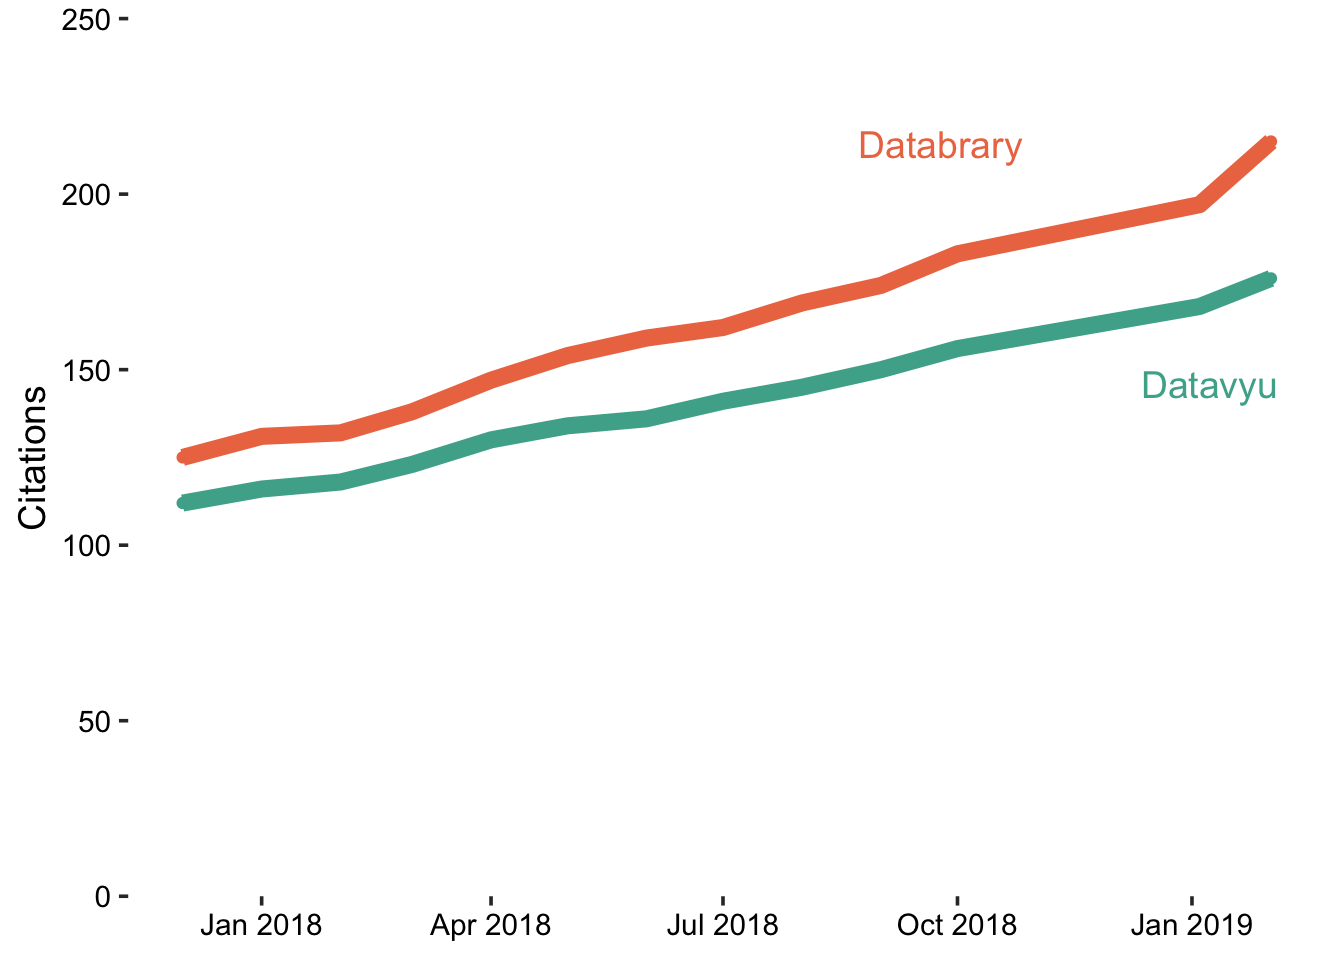
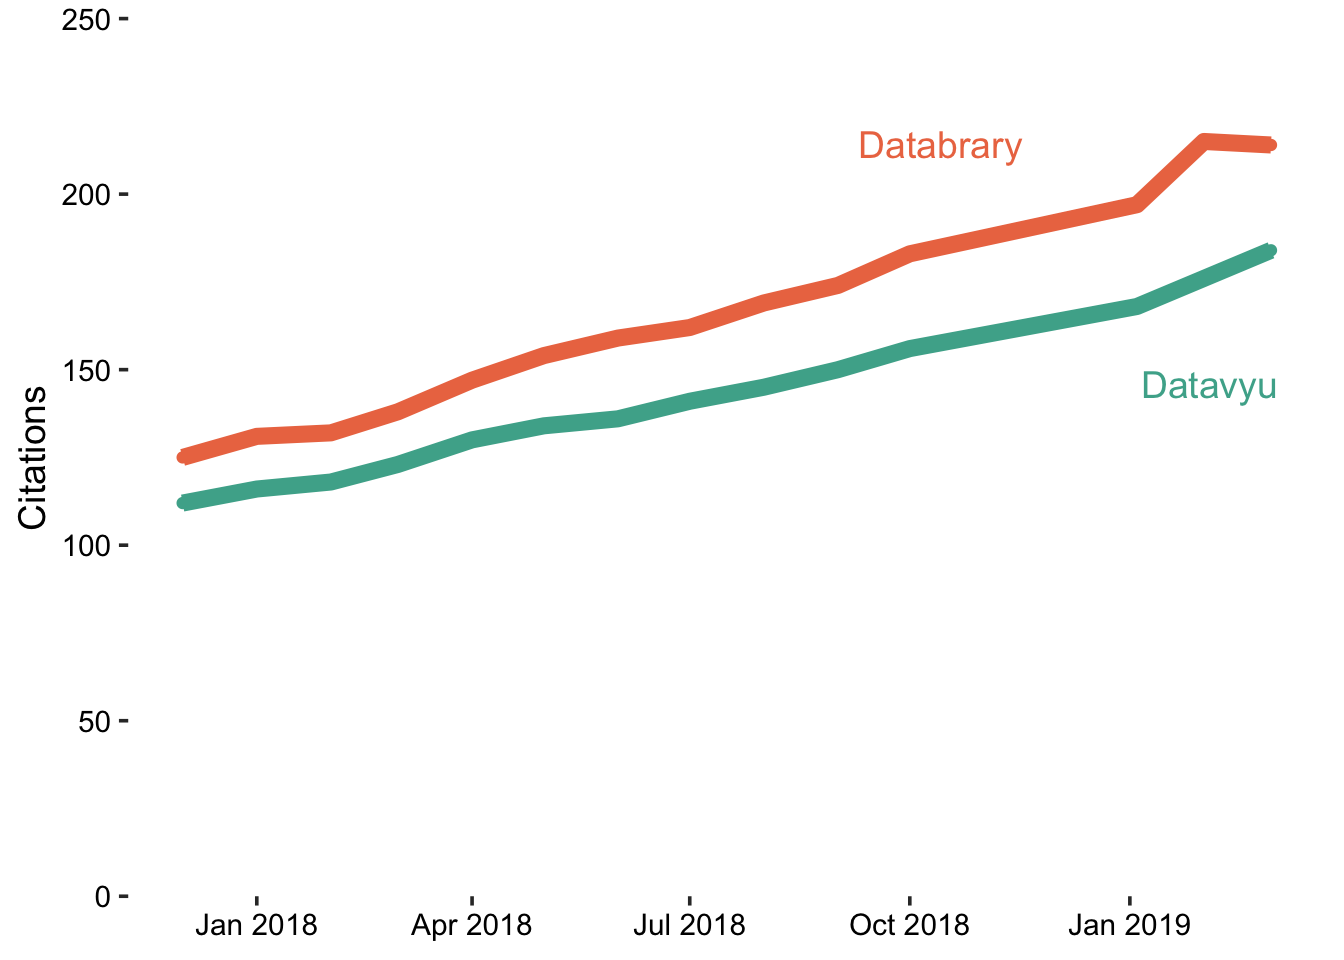
Add automatic Google Scholar search; tidy-up plot theme parameters

diff --git a/databrary_weekly.html b/databrary_weekly.html
@@ -301,7 +301,7 @@ div.tocify {
 
 <h1 class="title toc-ignore">Databrary Report</h1>
 <h4 class="author"><em>Rick O. Gilmore</em></h4>
-<h4 class="date"><em>2019-02-28 17:45:19</em></h4>
+<h4 class="date"><em>2019-03-01 10:15:15</em></h4>
 
 </div>
 
@@ -310,7 +310,6 @@ div.tocify {
 <h1><span class="header-section-number">1</span> Institutions &amp; Authorized Users</h1>
 <p>At the moment, the <code>old_stats</code> come from a CSV stored locally. Once we have API commands to upload new data, the <code>old_stats</code> can come from Databrary directly.</p>
 <pre class="r"><code>new_stats &lt;- databraryapi::get_db_stats()
-
 old_stats &lt;- read_csv(&quot;csv/institutionAuthCounts.csv&quot;)
 
 # initialize updated_stats
@@ -334,21 +333,16 @@ updated_stats &lt;-
 p &lt;- updated_stats %&gt;%
   ggplot(., aes(x = date, y = count, color = type, group = type)) +
   geom_point() + 
-  geom_line(size=3) +
-  theme_classic(base_size = 14) +                        #Axis Label Size
-  scale_colour_manual(values=c(&quot;#ec7751&quot;, &quot;#4CAE99&quot;)) +  #Saturated Databrary Colors 
+  geom_line(size = ln_size) +
+  scale_colour_manual(values=c(color_orange, color_teal)) +  
   ylab(&quot;Authorizations&quot;) +
-  #xlab(&quot;Year&quot;) +
-  #labs(title=&quot;Databrary User Growth&quot;) +
-  theme(axis.title.x=element_blank()) +
-  theme(legend.position=&quot;none&quot;, axis.text = element_text(size = rel(0.8), colour = &quot;black&quot;)) +    #Axis text size and color
-  theme(axis.line = element_blank()) +
+  databrary_theme +
   scale_y_continuous(breaks = seq(0, 900, 100), expand = c(0,0)) +
   coord_cartesian(ylim = c(0, 900))
   
 ggdraw(p) + 
-  draw_label(&quot;Investigators&quot;, colour = &quot;#4CAE99&quot;, .9, .73) +
-  draw_label(&quot;Institutions&quot;, colour = &quot;#ec7751&quot;, .9, .38)</code></pre>
+  draw_label(&quot;Investigators&quot;, colour = color_teal, .9, .73) +
+  draw_label(&quot;Institutions&quot;, colour = color_orange, .9, .38)</code></pre>
 <p><img src="databrary_weekly_files/figure-html/db-inst-user-plot-1.png" width="672" /></p>
 <div id="new-investigators" class="section level2">
 <h2><span class="header-section-number">1.1</span> New investigators</h2>
@@ -366,6 +360,16 @@ new_people %&gt;%
 </thead>
 <tbody>
 <tr class="odd">
+<td align="left">Kalagher</td>
+<td align="left">Hilary</td>
+<td align="left">Drew University</td>
+</tr>
+<tr class="even">
+<td align="left">Lanning</td>
+<td align="left">Kevin</td>
+<td align="left">Florida Atlantic University</td>
+</tr>
+<tr class="odd">
 <td align="left">Venker</td>
 <td align="left">Courtney</td>
 <td align="left">Michigan State University</td>
@@ -379,16 +383,6 @@ new_people %&gt;%
 <td align="left">Bowden</td>
 <td align="left">Edward</td>
 <td align="left">University of Wisconsin-Parkside</td>
-</tr>
-<tr class="even">
-<td align="left">Lloyd</td>
-<td align="left">Marianne</td>
-<td align="left">Seton Hall University</td>
-</tr>
-<tr class="odd">
-<td align="left">Lombardi</td>
-<td align="left">Doug</td>
-<td align="left">Temple University</td>
 </tr>
 </tbody>
 </table>
@@ -408,16 +402,16 @@ new_institutions %&gt;%
 </thead>
 <tbody>
 <tr class="odd">
-<td align="left">Longwood University</td>
-<td align="left"><a href="http://www.longwood.edu/" class="uri">http://www.longwood.edu/</a></td>
+<td align="left">Drew University</td>
+<td align="left"><a href="https://www.drew.edu/" class="uri">https://www.drew.edu/</a></td>
 </tr>
 <tr class="even">
-<td align="left">University of Wisconsin, Parkside</td>
-<td align="left"><a href="https://www.uwp.edu/" class="uri">https://www.uwp.edu/</a></td>
+<td align="left">Florida Atlantic University</td>
+<td align="left"><a href="https://www.fau.edu/" class="uri">https://www.fau.edu/</a></td>
 </tr>
 <tr class="odd">
-<td align="left">Seton Hall University</td>
-<td align="left">NA</td>
+<td align="left">Longwood University</td>
+<td align="left"><a href="http://www.longwood.edu/" class="uri">http://www.longwood.edu/</a></td>
 </tr>
 </tbody>
 </table>
@@ -444,22 +438,16 @@ updated_vols$unshared_volumes[next_entry] &lt;-
 vols_plot &lt;- updated_vols %&gt;%
   ggplot(., aes(x = date, y = count, color = type, group = type)) +
   geom_point() + 
-  geom_line(size=3) +
-  theme_classic(base_size = 14) +                        #Axis Label Size
-  scale_colour_manual(values=c(&quot;#ec7751&quot;, &quot;#4CAE99&quot;)) +  #Saturated Databrary Colors 
+  geom_line(size=ln_size) +
+  scale_colour_manual(values=c(color_orange, color_teal)) +  
   ylab(&quot;Volumes&quot;) +
-  #xlab(&quot;Year&quot;) +
-  #labs(title=&quot;Databrary Citation Growth&quot;) +
-  theme(axis.title.x=element_blank()) +
-  theme(legend.position=&quot;none&quot;, axis.text = element_text(size = rel(0.8), colour = &quot;black&quot;)) +    #Axis text size and color
-  theme(axis.line = element_blank()) +
+  databrary_theme +
   scale_y_continuous(breaks = seq(0, 500, 100), expand = c(0,0)) +
   coord_cartesian(ylim = c(0, 500))
   
-  
 ggdraw(vols_plot) + 
-  draw_label(&quot;Unshared&quot;, colour = &quot;#4CAE99&quot;, .86, .88) +
-  draw_label(&quot;Shared&quot;, colour = &quot;#ec7751&quot;, .84, .65)</code></pre>
+  draw_label(&quot;Unshared&quot;, colour = color_teal, .86, .88) +
+  draw_label(&quot;Shared&quot;, colour = color_orange, .84, .65)</code></pre>
 <p><img src="databrary_weekly_files/figure-html/db-vols-plot-1.png" width="672" /></p>
 <div id="new-volumes" class="section level2">
 <h2><span class="header-section-number">2.1</span> New volumes</h2>
@@ -502,11 +490,42 @@ new_volumes %&gt;%
 </div>
 <div id="citation-counts" class="section level1">
 <h1><span class="header-section-number">3</span> Citation counts</h1>
-<p>This section will eventually update and show the citation counts for Databrary and Datavyu. For now, it just shows the stored data file that we update manually. This can be automated, we just have to write a function to parse the HTML returned from Google Scholar to pull the relevant data.</p>
-<!-- Here we plot all Databrary and Datavyu Citations vs. date. I used https://www.hexcolortool.com to saturate the Databrary colors ("#fadbc7", "#b2ddd4") so they are darker on the graph. -->
-<pre class="r"><code>citations &lt;- read_csv(&quot;csv/citations-monthly.csv&quot;)
+<pre class="r"><code># Get citation counts from Google Scholar
+get_citation_stats &lt;- function(project = &#39;databrary&#39;) {
+  if (project %in% c(&#39;databrary&#39;, &#39;Databrary&#39;)) {
+    url &lt;- &#39;https://scholar.google.com/scholar?hl=en&amp;as_sdt=1%2C39&amp;as_vis=1&amp;q=%22databrary%22&amp;btnG=&#39;
+  } else if (project %in% c(&#39;datavyu&#39;, &#39;Datavyu&#39;)) {
+    url &lt;- &#39;https://scholar.google.com/scholar?hl=en&amp;as_sdt=1%2C39&amp;as_vis=1&amp;q=%22datavyu%22&amp;btnG=&#39;
+  }
+  
+  r &lt;- httr::GET(url = url)
+  if (httr::status_code(r) == 200) {
+    content &lt;- httr::content(r, &#39;text&#39;)
+  } else {
+    message(paste0(&#39;Download Failed, HTTP status &#39;, httr::status_code(r)))
+  }
+  
+  n_results &lt;- stringr::str_match(content, pattern = &quot;About ([0-9]+)&quot;)[2]
+  if (is.null(n_results)) {
+    message(paste0(&#39;Unable to parse results from search.&#39;))
+    return(NULL)
+  } else {
+    return(as.numeric(n_results))
+  }
+}
 
-citations &lt;- citations %&gt;%
+databrary_cites &lt;- get_citation_stats(&#39;databrary&#39;)
+datavyu_cites &lt;- get_citation_stats(&#39;datavyu&#39;)
+
+old_citations &lt;- citations &lt;- read_csv(&quot;csv/citations-monthly.csv&quot;)
+next_value &lt;- dim(old_citations)[1] + 1
+citations &lt;- old_citations
+citations[next_value,] &lt;- NA
+
+citations$date[next_value] &lt;- Sys.Date()
+citations$databrary_citations[next_value] &lt;- databrary_cites
+citations$datavyu_citations[next_value] &lt;- datavyu_cites</code></pre>
+<pre class="r"><code>citations &lt;- citations %&gt;%
   gather(., key = &quot;type&quot;, value = &quot;count&quot;, -date)
 
 # Plot
@@ -514,21 +533,16 @@ citations_plot &lt;-
   citations %&gt;%
   ggplot(., aes(x = date, y = count, color = type, group = type)) +
   geom_point() + 
-  geom_line(size=3) +
-  theme_classic(base_size = 14) +                        #Axis Label Size
-  scale_colour_manual(values=c(&quot;#ec7751&quot;, &quot;#4CAE99&quot;)) +  #Saturated Databrary Colors 
+  geom_line(size = ln_size) +
+  scale_colour_manual(values=c(color_orange, color_teal)) +
   ylab(&quot;Citations&quot;) +
-  #xlab(&quot;Year&quot;) +
-  #labs(title=&quot;Databrary Citation Growth&quot;) +
-  theme(axis.title.x=element_blank()) +
-  theme(legend.position=&quot;none&quot;, axis.text = element_text(size = rel(0.8), colour = &quot;black&quot;)) +    #Axis text size and color
-  theme(axis.line = element_blank()) +
+  databrary_theme +
   scale_y_continuous(breaks = seq(0, 250, 50), expand = c(0,0)) +
   coord_cartesian(ylim = c(0, 250))
   
 ggdraw(citations_plot) + 
-  draw_label(&quot;Datavyu&quot;, colour = &quot;#4CAE99&quot;, .9, .6) +
-  draw_label(&quot;Databrary&quot;, colour = &quot;#ec7751&quot;, .7, .85)</code></pre>
+  draw_label(&quot;Datavyu&quot;, colour = color_teal, .9, .6) +
+  draw_label(&quot;Databrary&quot;, colour = color_orange, .7, .85)</code></pre>
 <p><img src="databrary_weekly_files/figure-html/db-dv-citations-plot-1.png" width="672" /></p>
 </div>
 <div id="data-about-volumes-with-videos" class="section level1">
@@ -552,39 +566,6 @@ write_vid_csv &lt;- function(vol.id = 1) {
               row.names = FALSE)
   }
 } </code></pre>
-<pre class="r"><code>lapply(last_vol:(last_vol + vols_to_test), write_vid_csv)</code></pre>
-<pre><code>## [[1]]
-## NULL
-## 
-## [[2]]
-## NULL
-## 
-## [[3]]
-## NULL
-## 
-## [[4]]
-## NULL
-## 
-## [[5]]
-## NULL
-## 
-## [[6]]
-## NULL
-## 
-## [[7]]
-## NULL
-## 
-## [[8]]
-## NULL
-## 
-## [[9]]
-## NULL
-## 
-## [[10]]
-## NULL
-## 
-## [[11]]
-## NULL</code></pre>
 <pre class="r"><code>vol_files &lt;- list.files(&quot;csv&quot;, pattern = &quot;vol_[0-9]+&quot;, full.names = TRUE)
 
 # Import the individual csv files
@@ -595,23 +576,9 @@ video_stats &lt;- Reduce(function(x,y) merge(x, y, all = TRUE), video_data)</cod
 vol_info &lt;- lapply(vols, list_volume_metadata)
 vols_data &lt;- Reduce(function(x,y) merge(x, y, all = TRUE), vol_info)
 vols_joined &lt;- dplyr::left_join(vols_data, video_stats, by = c(&quot;vol_id&quot; = &quot;vol_id&quot;))</code></pre>
-<!-- NB: -->
-<!-- Permission 2: Access via Databrary sharing only -->
-<!-- Permission 3: Non-named collaborator (through X?) -->
-<!-- Permission 4: Named collaborator -->
-<!-- Permission 5: Investigator, Volume overview shared OR Private -->
-<!-- I need to dig in to determine what variable depicts the sharing level. -->
-<!-- For now, let's note that volumes with permission == 2 are available to all Databrary users. -->
-<!-- Volumes with a DOI have partial information available to all Databrary users. -->
-<p>There are 119 volumes with DOIs (shared) that have sessions and at least one video as of today (2019-02-28 17:46:03).</p>
-<!-- Let's export a CSV of these. -->
-<!-- ```{r} -->
-<!-- shared_vols_w_video <- vols_joined %>%  -->
-<!--   dplyr::filter(doi != "NA") -->
-<!-- write.csv(shared_vols_w_video, file = "shared_vols_w_video_2018-12-28.csv", row.names = FALSE) -->
-<!-- ``` -->
-<div id="number-of-videos-in-a-shared-volume" class="section level2">
-<h2><span class="header-section-number">4.1</span> Number of videos in a (shared) volume</h2>
+<p>There are 119 volumes with DOIs (shared) that have sessions and at least one video as of today (2019-03-01 10:15:48).</p>
+<div id="number-of-videos-in-shared-volumes" class="section level2">
+<h2><span class="header-section-number">4.1</span> Number of videos in (shared) volumes</h2>
 <pre class="r"><code>vols_joined %&gt;%
   filter(!is.na(doi)) %&gt;%
   ggplot(.) +
@@ -619,8 +586,8 @@ vols_joined &lt;- dplyr::left_join(vols_data, video_stats, by = c(&quot;vol_id&q
   geom_histogram()</code></pre>
 <p><img src="databrary_weekly_files/figure-html/n-vids-shared-vols-1.png" width="672" /></p>
 </div>
-<div id="number-of-sessions-in-a-shared-volume" class="section level2">
-<h2><span class="header-section-number">4.2</span> Number of sessions in a (shared) volume</h2>
+<div id="number-of-sessions-in-shared-volumes" class="section level2">
+<h2><span class="header-section-number">4.2</span> Number of sessions in (shared) volumes</h2>
 <pre class="r"><code>vols_joined %&gt;%
   filter(!is.na(doi)) %&gt;%
   ggplot(.) +
@@ -628,8 +595,8 @@ vols_joined &lt;- dplyr::left_join(vols_data, video_stats, by = c(&quot;vol_id&q
   geom_histogram()</code></pre>
 <p><img src="databrary_weekly_files/figure-html/n-sessions-shared-vols-1.png" width="672" /></p>
 </div>
-<div id="total-video-hours-in-a-shared-volume" class="section level2">
-<h2><span class="header-section-number">4.3</span> Total video hours in a (shared) volume</h2>
+<div id="total-video-hours-in-shared-volumes" class="section level2">
+<h2><span class="header-section-number">4.3</span> Total video hours in (shared) volumes</h2>
 <pre class="r"><code>vols_joined %&gt;%
   filter(!is.na(doi)) %&gt;%
   ggplot(.) +
